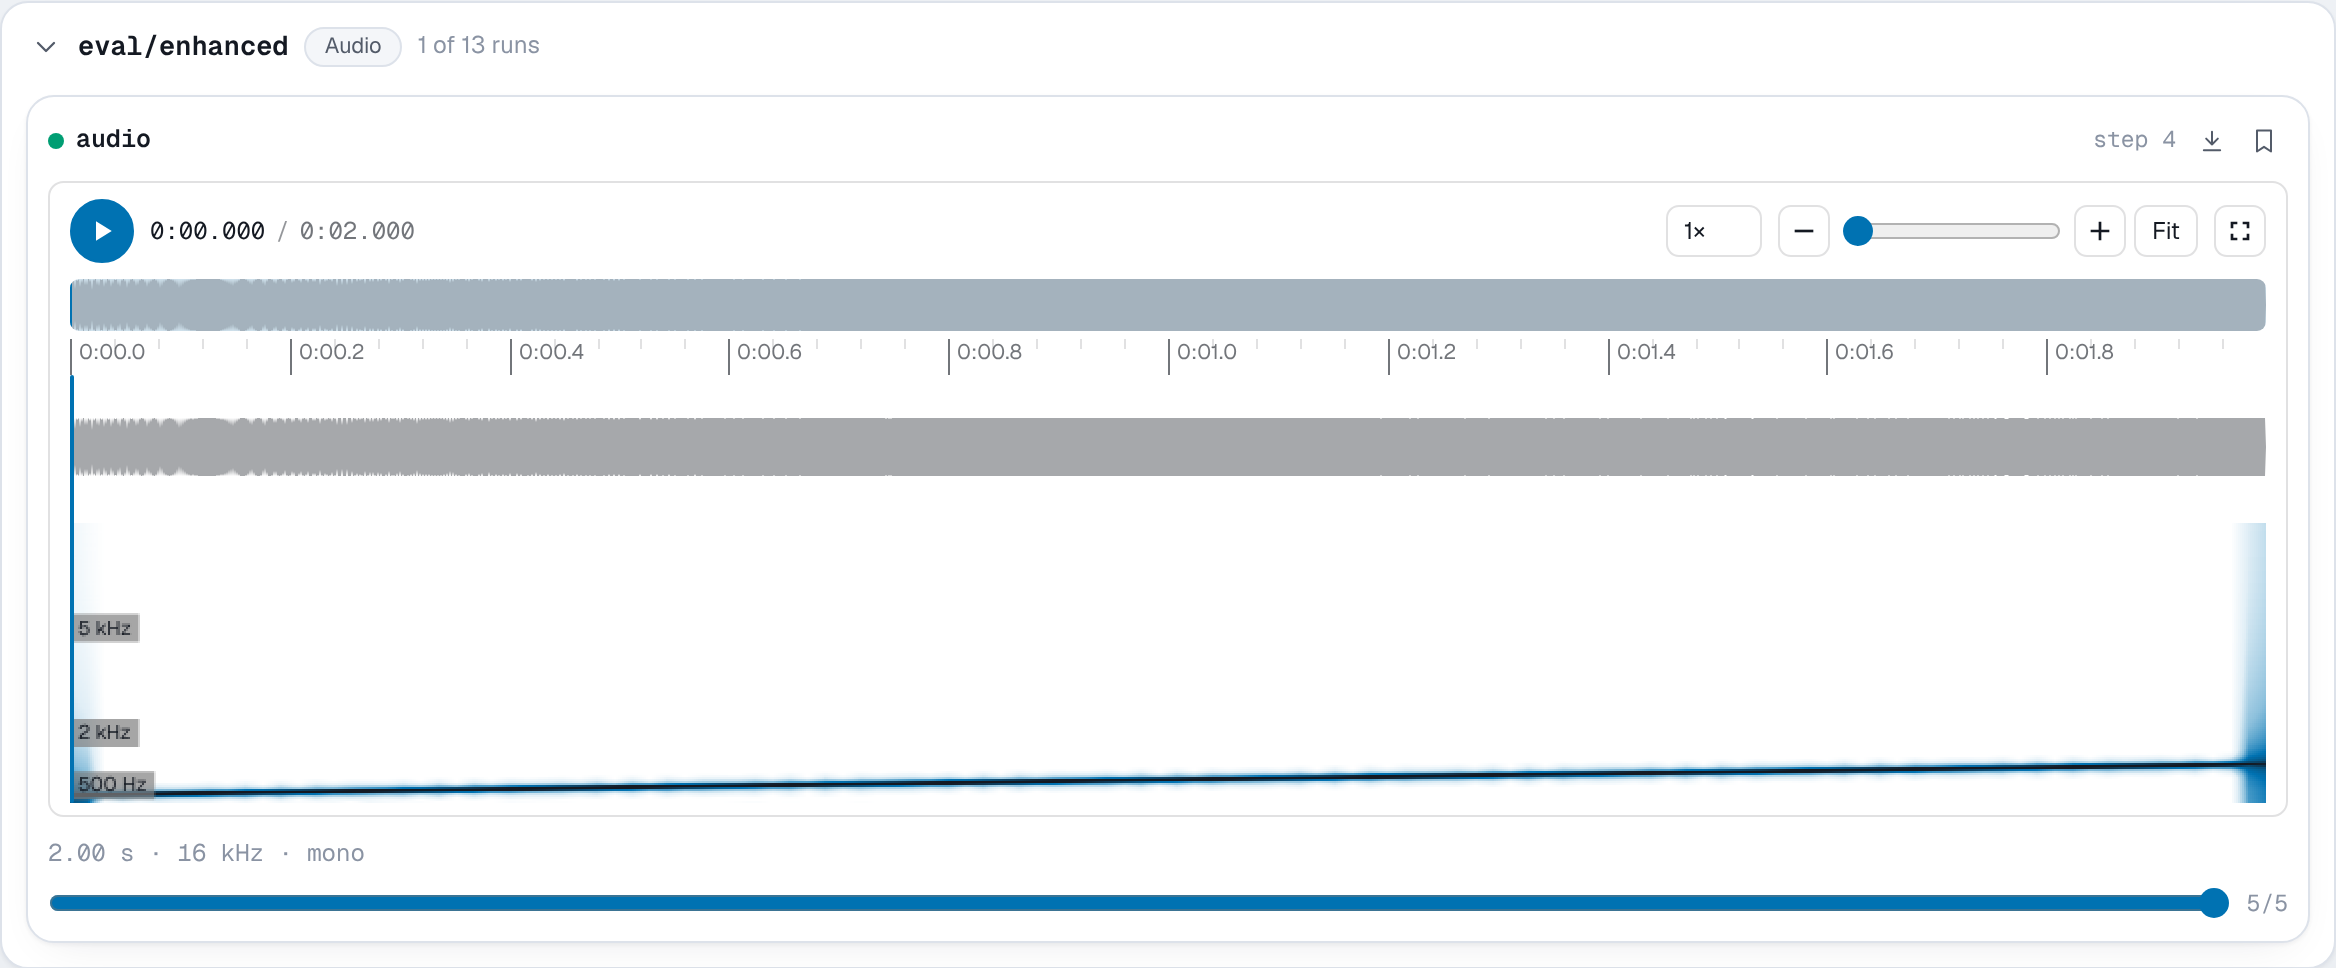
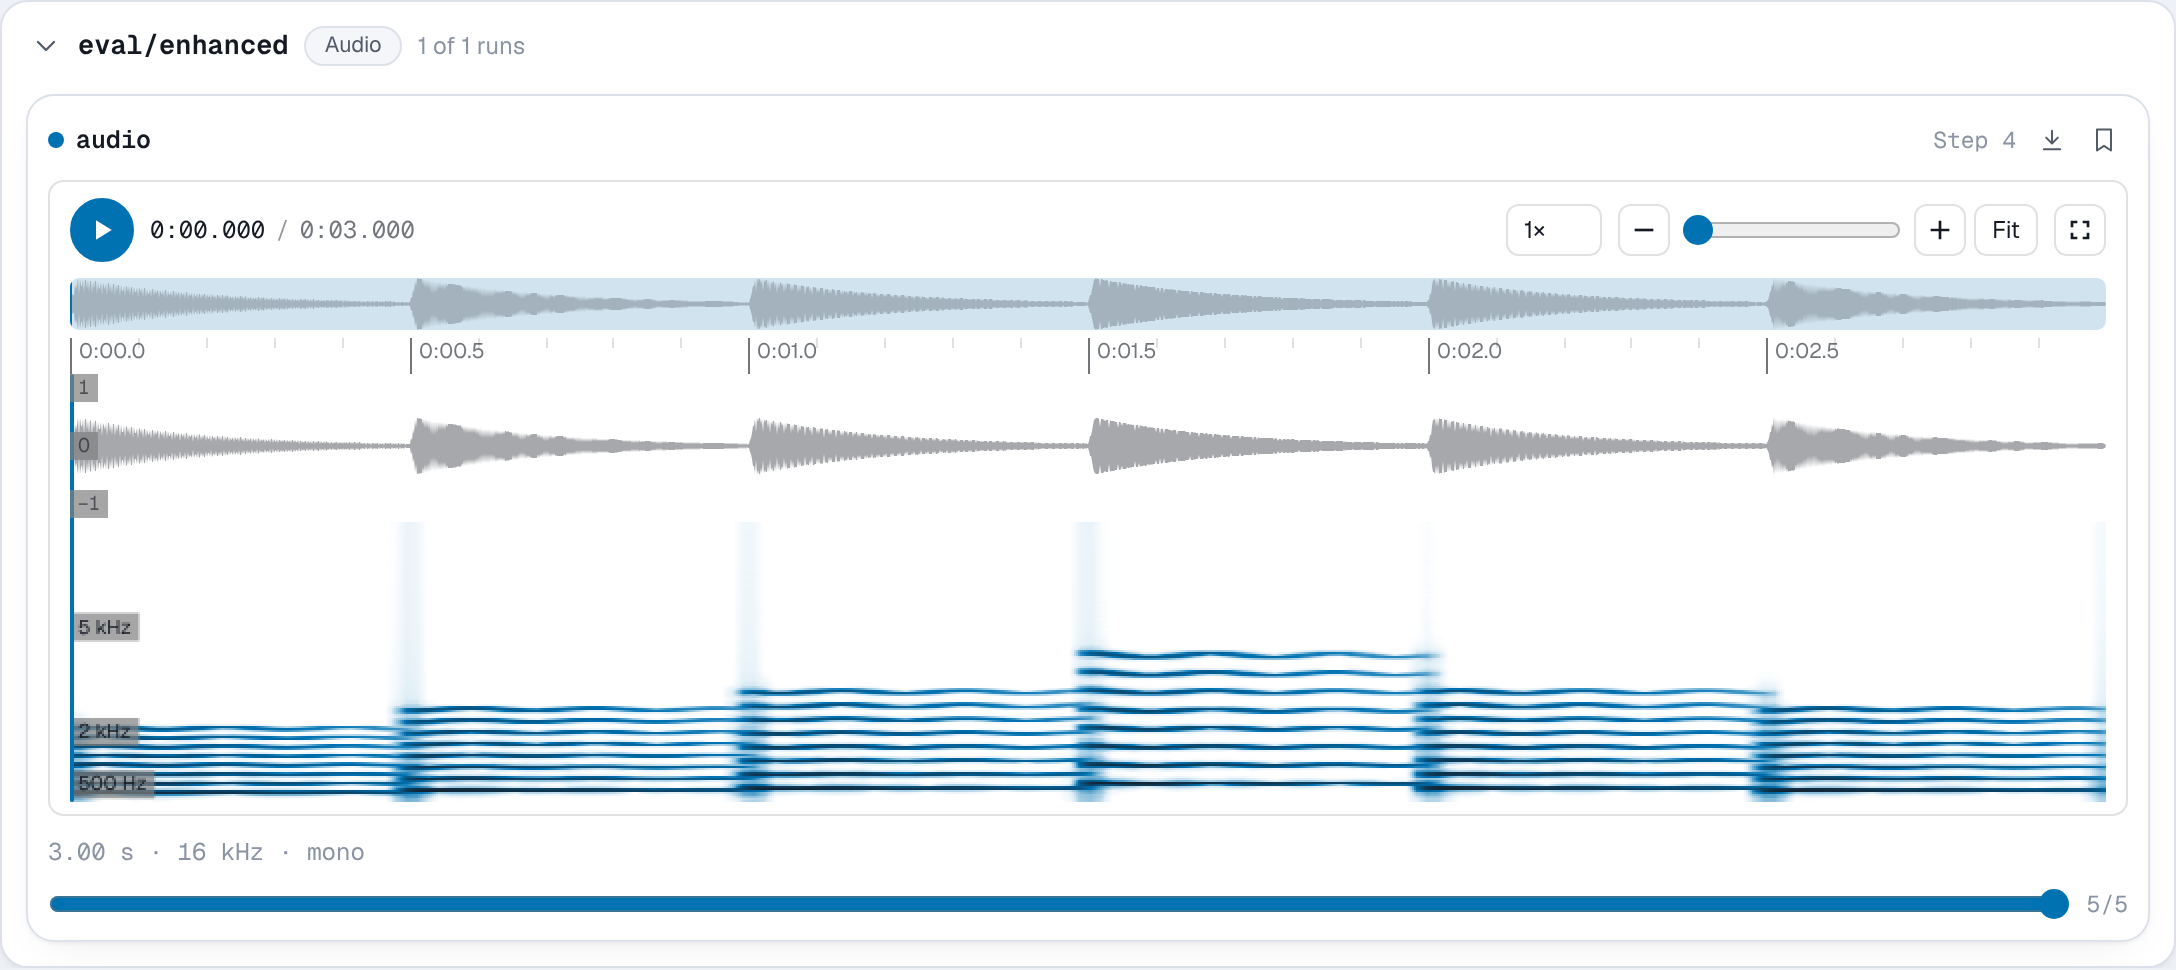
Docs: screenshots for add_scalar ranges, add_scalar_baseline and timer, richer add_audio
- add_scalar: the example logs eval/loss with low and high, and a new
  image shows its band.
- add_scalar_baseline and timer: add an expected-result image.
- add_audio: the example logs a plucked arpeggio with harmonics and
  vibrato instead of a chirp, with a new screenshot of its waveform and
  spectrogram.

Refs #37

diff --git a/docs/api/add_audio.md b/docs/api/add_audio.md
@@ -43,8 +43,14 @@ import nuboard as nb
 
 run = nb.init("api-tour", run_name="audio")
 rate = 16_000
-t = np.arange(2 * rate) / rate
-clean = 0.4 * np.sin(2 * np.pi * (220 + 220 * t) * t)  # a rising chirp
+t = np.arange(3 * rate) / rate
+
+# A plucked arpeggio: six notes of half a second, each with 8 harmonics and vibrato
+notes = np.repeat([262, 330, 392, 523, 392, 330], rate // 2)
+f0 = notes * (1 + 0.015 * np.sin(2 * np.pi * 5.5 * t))
+phase = 2 * np.pi * np.cumsum(f0) / rate
+pluck = np.minimum(1, (t % 0.5) / 0.01) * np.exp(-5 * (t % 0.5))
+clean = 0.25 * pluck * sum(np.sin(k * phase) / k for k in range(1, 9))
 rng = np.random.default_rng(0)
 
 for epoch in range(5):
@@ -57,4 +63,4 @@ run.finish()
 
 **Expected result**
 
-![An audio card with the waveform player](../assets/api/audio.png)
+![An audio card with the waveform player: the waveform of a plucked arpeggio above its spectrogram, where each note shows as a stack of harmonics](../assets/api/audio.png)

diff --git a/docs/api/add_scalar.md b/docs/api/add_scalar.md
@@ -70,8 +70,10 @@ for step in range(500):
     loss = 2.2 * math.exp(-step / 120) + 0.25 + 0.04 * math.sin(step / 7)
     run.add_scalar({"train": {"loss": loss, "lr": lr}}, step=step)
 
-    if step % 50 == 0:
-        run.add_scalar("eval/loss", loss + 0.08, step=step)
+    if step % 25 == 0:
+        # mean and std over evaluation batches, logged as a range
+        mean, std = loss + 0.08, 0.05 + 0.15 * math.exp(-step / 150)
+        run.add_scalar("eval/loss", mean, step=step, low=mean - std, high=mean + std)
         run.add_scalar("eval/acc", 1 - loss / 3, step=step)
 
 run.finish()
@@ -80,3 +82,7 @@ run.finish()
 **Expected result**
 
 ![Charts for train/loss, train/lr, eval/loss and eval/acc](../assets/api/scalars.png)
+
+`eval/loss`, logged with `low` and `high`, has a shaded band around its line:
+
+![eval/loss with a shaded band from its logged low and high values](../assets/api/scalars-range.png)

diff --git a/docs/api/timer.md b/docs/api/timer.md
@@ -119,3 +119,7 @@ for epoch in range(5):
 
 run.finish()
 ```
+
+**Expected result**
+
+![The run's Timing tab: train/epoch with data/wait summed under it, and val/epoch, with calls, mean per step, p95 and total, and the spans of one epoch](../assets/api/timer.png)

diff --git a/docs/api/add_scalar_baseline.md b/docs/api/add_scalar_baseline.md
@@ -58,3 +58,7 @@ for epoch in range(30):
 
 run.finish()
 ```
+
+**Expected result**
+
+![val/pesq rising over 30 epochs above a dashed baseline at 1.31 with a light band from 1.19 to 1.43](../assets/api/baseline.png)
